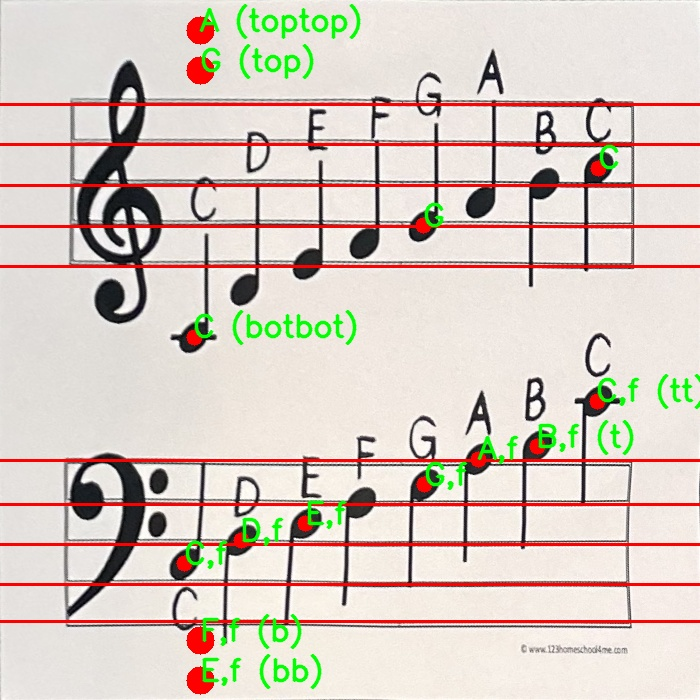
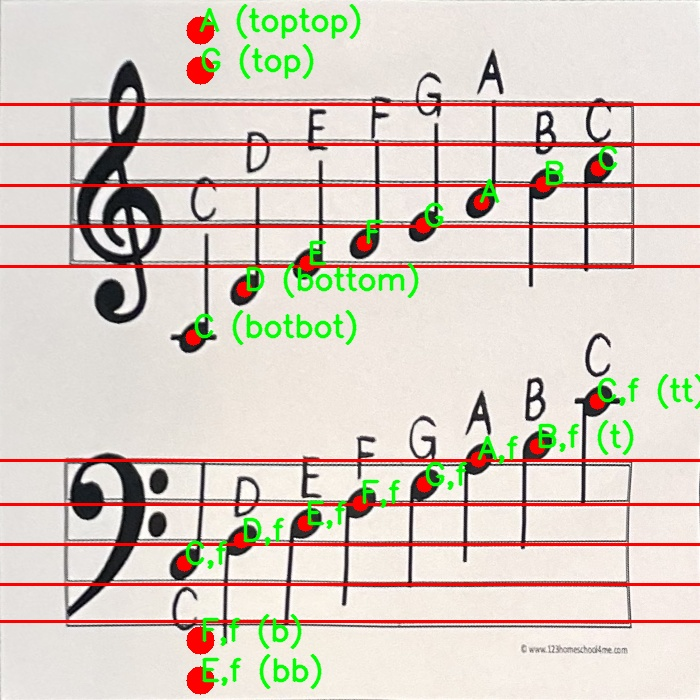
ferdig ryddet?

diff --git a/ryddet mappe/note_utils.py b/ryddet mappe/note_utils.py
@@ -2,9 +2,9 @@ import cv2
 import numpy as np 
 def removeLines(imageCanny):
 	kernel = cv2.getStructuringElement(cv2.MORPH_RECT, (7,7))#kernel for rectangle
-	imageNoLines = cv2.morphologyEx(imageCanny, cv2.MORPH_CLOSE, kernel)#fills inn lines
+	imageNoLines = cv2.morphologyEx(imageCanny, cv2.MORPH_OPEN, kernel)#fills inn lines
 
-	imageNoLines = cv2.threshold(imageNoLines,100,255,cv2.THRESH_BINARY)[1]
+	imageNoLines = cv2.threshold(imageNoLines,150,255,cv2.THRESH_BINARY)[1]
 
 	return imageNoLines
 
@@ -19,8 +19,8 @@ def getNoteDetectParams(minAreal,maxAreal):
 
 	# Set Circularity 
 	params.filterByCircularity = True
-	params.minCircularity = 0.75
-	params.maxCircularity = 0.85
+	params.minCircularity = 0.63
+	params.maxCircularity = 0.9
 
 	# Set Convexity (the larger -> more like a cricle)
 	params.filterByConvexity = True
@@ -28,15 +28,17 @@ def getNoteDetectParams(minAreal,maxAreal):
 		
 	# Set inertia (this gives ellipse like shape between zero and one i think... cicle is 1)
 	params.filterByInertia = True
-	params.minInertiaRatio = 0.23
-	params.maxInertiaRatio = 0.56
+	params.minInertiaRatio = 0.2
+	params.maxInertiaRatio = 0.55
 	return params
 
 def getLinePosition(rho, theta):
+    # See hough line transform theory
     a = np.cos(theta)
     b = np.sin(theta)
     x0 = a*rho
     y0 = b*rho
+    #make line 2000 pixels long
     x1 = int(x0 + 2000*(-b))
     y1 = int(y0 + 2000*(a))
     x2 = int(x0 - 2000*(-b))
@@ -54,6 +56,7 @@ def check_close_line(line,filter_lines,treshold, img):
             return True
     return False
 
+# Remove lines that are close to each other
 def remove_close_lines(lines, treshold, img):
     filter_lines = [lines[0]]
     for line in lines:
@@ -61,6 +64,7 @@ def remove_close_lines(lines, treshold, img):
         if not is_close: filter_lines.append(line)
     return filter_lines
 
+# True: there's an intersection between the line and the circle
 def line_circle_intersection(line_start, line_end, circle_center, circle_radius):
     
     # Line in vector form
@@ -71,6 +75,7 @@ def line_circle_intersection(line_start, line_end, circle_center, circle_radius)
     
     # Projection, vector that goes from line start to the closest point on the line to the circle center
     projection = np.dot(start_to_center, line_vec) / np.dot(line_vec, line_vec) * line_vec
+
     # Closest point on the line to the circle center
     closest_point = np.array(line_start) + projection
     
@@ -83,119 +88,109 @@ def line_circle_intersection(line_start, line_end, circle_center, circle_radius)
     else:
         return False
 
-def draw_notes_intersetion_gclef(img, note_pos,x_c, y_c):
-    if note_pos == 1:
+# Draw notes who intersects with lines (for g clef)
+def draw_notes_intersetion_gclef(img, line_pos,x_c, y_c):
+    if line_pos == 1:
         print("note is a E")
         cv2.putText(img, "E", (x_c, y_c), cv2.FONT_HERSHEY_SIMPLEX, 1, (0, 255, 0), 2, cv2.LINE_AA)
-    elif note_pos == 2:
+    elif line_pos == 2:
         print("note is a G")
         cv2.putText(img, "G", (x_c, y_c), cv2.FONT_HERSHEY_SIMPLEX, 1, (0, 255, 0), 2, cv2.LINE_AA)
-    elif note_pos == 3:
+    elif line_pos == 3:
         print("note is a B") 
         cv2.putText(img, "B", (x_c, y_c), cv2.FONT_HERSHEY_SIMPLEX, 1, (0, 255, 0), 2, cv2.LINE_AA)  
-    elif note_pos == 4:
+    elif line_pos == 4:
         print("note is a D")
         cv2.putText(img, "D", (x_c, y_c), cv2.FONT_HERSHEY_SIMPLEX, 1, (0, 255, 0), 2, cv2.LINE_AA)
-    elif note_pos == 5:
+    elif line_pos == 5:
         print("note is a F")
         cv2.putText(img, "F", (x_c, y_c), cv2.FONT_HERSHEY_SIMPLEX, 1, (0, 255, 0), 2, cv2.LINE_AA)
 
-def draw_notes_intersetion_fclef(img, note_pos,x_c, y_c):
-    if note_pos == 1:
+# Draw notes who intersects with lines (for f clef)
+def draw_notes_intersetion_fclef(img, line_pos,x_c, y_c):
+    if line_pos == 1:
         print("note is a G")
         cv2.putText(img, "G,f", (x_c, y_c), cv2.FONT_HERSHEY_SIMPLEX, 1, (0, 255, 0), 2, cv2.LINE_AA)
-    elif note_pos == 2:
+    elif line_pos == 2:
         print("note is a B")
         cv2.putText(img, "B,f", (x_c, y_c), cv2.FONT_HERSHEY_SIMPLEX, 1, (0, 255, 0), 2, cv2.LINE_AA)
-    elif note_pos == 3:
+    elif line_pos == 3:
         print("note is a D") 
         cv2.putText(img, "D,f", (x_c, y_c), cv2.FONT_HERSHEY_SIMPLEX, 1, (0, 255, 0), 2, cv2.LINE_AA)  
-    elif note_pos == 4:
+    elif line_pos == 4:
         print("note is a F")
         cv2.putText(img, "F,f", (x_c, y_c), cv2.FONT_HERSHEY_SIMPLEX, 1, (0, 255, 0), 2, cv2.LINE_AA)
-    elif note_pos == 5:
+    elif line_pos == 5:
         print("note is a A")
         cv2.putText(img, "A,f", (x_c, y_c), cv2.FONT_HERSHEY_SIMPLEX, 1, (0, 255, 0), 2, cv2.LINE_AA)
 
-def draw_notes_no_intersection_gclef(split_lines, img, x_c, y_c, line_spacing):
-    #code for notes in between lines
-    smallest_distance = 1000000
-    distances_info = []
-    distance_info = ()
-    for line in split_lines:
-        
-        for x1,y1,x2,y2,rho,theta,note_pos, grei in line:
-            distance = abs(y2-y_c)
-            distance_info = (distance, note_pos, y2)
-            distances_info.append(distance_info)
-    # print("distances_info:",distances_info)
-    distances_info_sorted = sorted(distances_info, key=lambda x: x[0])
-    # print("distances_info_sorted:",distances_info_sorted)
-    closest_note_pos = distances_info_sorted[0][1]
-    second_closest_note_pos = distances_info_sorted[1][1]
-    if closest_note_pos == 1 and (y_c > distances_info_sorted[0][2]) and (y_c - distances_info_sorted[0][2] < line_spacing):
+# Draw notes in between lines and over staff (for g clef)
+def draw_notes_no_intersection_gclef(split_lines, img, x_c, y_c, line_spacing, closest_line_pos, closest_line_yvalue, second_closest_line_pos):
+    
+    # For notes over/under the lines
+    if closest_line_pos == 1 and (y_c > closest_line_yvalue) and (y_c - closest_line_yvalue < line_spacing):
         print("Note is D (bottom)")
         cv2.putText(img, "D (bottom)", (x_c, y_c), cv2.FONT_HERSHEY_SIMPLEX, 1, (0, 255, 0), 2, cv2.LINE_AA)
         return
-    if closest_note_pos == 1 and (y_c > distances_info_sorted[0][2]) and (y_c - distances_info_sorted[0][2] > line_spacing):
+    if closest_line_pos == 1 and (y_c > closest_line_yvalue) and (y_c - closest_line_yvalue > line_spacing):
         print("Note is C (botbot)")
         cv2.putText(img, "C (botbot)", (x_c, y_c), cv2.FONT_HERSHEY_SIMPLEX, 1, (0, 255, 0), 2, cv2.LINE_AA)
         return
-    if closest_note_pos == 5 and (y_c < distances_info_sorted[0][2]) and (distances_info_sorted[0][2] - y_c < line_spacing):
+    if closest_line_pos == 5 and (y_c < closest_line_yvalue) and (closest_line_yvalue - y_c < line_spacing):
         print("Note is G (top)")
         cv2.putText(img, "G (top)", (x_c, y_c), cv2.FONT_HERSHEY_SIMPLEX, 1, (0, 255, 0), 2, cv2.LINE_AA)
         return
-    if closest_note_pos == 5 and (y_c < distances_info_sorted[0][2]) and (distances_info_sorted[0][2] - y_c > line_spacing):
+    if closest_line_pos == 5 and (y_c < closest_line_yvalue) and (closest_line_yvalue - y_c > line_spacing):
         print("Note is A (toptop)")
         cv2.putText(img, "A (toptop)", (x_c, y_c), cv2.FONT_HERSHEY_SIMPLEX, 1, (0, 255, 0), 2, cv2.LINE_AA)
         return
-    
-    # print("closest_note_pos and second_closest_note_pos:",closest_note_pos,second_closest_note_pos)
-    # print("distances_info_sorted",distances_info_sorted)
-    if closest_note_pos == 1 and second_closest_note_pos == 2 or closest_note_pos == 2 and second_closest_note_pos == 1:
+
+    # For notes in between the lines
+    if closest_line_pos == 1 and second_closest_line_pos == 2 or closest_line_pos == 2 and second_closest_line_pos == 1:
         print("note is a F")
         cv2.putText(img, "F", (x_c, y_c), cv2.FONT_HERSHEY_SIMPLEX, 1, (0, 255, 0), 2, cv2.LINE_AA)
-    elif closest_note_pos == 2 and second_closest_note_pos == 3 or closest_note_pos == 3 and second_closest_note_pos == 2:
+    elif closest_line_pos == 2 and second_closest_line_pos == 3 or closest_line_pos == 3 and second_closest_line_pos == 2:
         print("note is a A.")
         cv2.putText(img, "A", (x_c, y_c), cv2.FONT_HERSHEY_SIMPLEX, 1, (0, 255, 0), 2, cv2.LINE_AA)
-    elif closest_note_pos == 3 and second_closest_note_pos == 4 or closest_note_pos == 4 and second_closest_note_pos == 3:
+    elif closest_line_pos == 3 and second_closest_line_pos == 4 or closest_line_pos == 4 and second_closest_line_pos == 3:
         print("note is a C")
         cv2.putText(img, "C", (x_c, y_c), cv2.FONT_HERSHEY_SIMPLEX, 1, (0, 255, 0), 2, cv2.LINE_AA)
-    elif closest_note_pos == 4 and second_closest_note_pos == 5 or closest_note_pos == 5 and second_closest_note_pos == 4:
+    elif closest_line_pos == 4 and second_closest_line_pos == 5 or closest_line_pos == 5 and second_closest_line_pos == 4:
         print("note is a E")
         cv2.putText(img, "E", (x_c, y_c), cv2.FONT_HERSHEY_SIMPLEX, 1, (0, 255, 0), 2, cv2.LINE_AA)
-    # print("No intersection found")
 
-def draw_notes_no_intersection_fclef(split_lines, img, x_c, y_c, line_spacing, closest_note_pos, closest_line_yvalue, second_closest_note_pos):
-    #code for notes in between lines
-
-    if closest_note_pos == 1 and (y_c > closest_line_yvalue) and (y_c - closest_line_yvalue < line_spacing):
+# Draw notes in between lines and over staff (for f clef)
+def draw_notes_no_intersection_fclef(split_lines, img, x_c, y_c, line_spacing, closest_line_pos, closest_line_yvalue, second_closest_line_pos):
+    
+    # For notes over/under the lines
+    if closest_line_pos == 1 and (y_c > closest_line_yvalue) and (y_c - closest_line_yvalue < line_spacing):
         print("Note is F (b)")
         cv2.putText(img, "F,f (b)", (x_c, y_c), cv2.FONT_HERSHEY_SIMPLEX, 1, (0, 255, 0), 2, cv2.LINE_AA)
         print("values:",x_c, y_c)
         return
-    if closest_note_pos == 1 and (y_c > closest_line_yvalue) and (y_c - closest_line_yvalue > line_spacing):
+    if closest_line_pos == 1 and (y_c > closest_line_yvalue) and (y_c - closest_line_yvalue > line_spacing):
         print("Note is E (bb)")
         cv2.putText(img, "E,f (bb)", (x_c, y_c), cv2.FONT_HERSHEY_SIMPLEX, 1, (0, 255, 0), 2, cv2.LINE_AA)
         return
-    if closest_note_pos == 5 and (y_c < closest_line_yvalue) and (closest_line_yvalue - y_c < line_spacing):
+    if closest_line_pos == 5 and (y_c < closest_line_yvalue) and (closest_line_yvalue - y_c < line_spacing):
         print("Note is B (top)")
         cv2.putText(img, "B,f (t)", (x_c, y_c), cv2.FONT_HERSHEY_SIMPLEX, 1, (0, 255, 0), 2, cv2.LINE_AA)
         return
-    if closest_note_pos == 5 and (y_c < closest_line_yvalue) and (closest_line_yvalue - y_c > line_spacing):
+    if closest_line_pos == 5 and (y_c < closest_line_yvalue) and (closest_line_yvalue - y_c > line_spacing):
         print("Note is C (toptop)")
         cv2.putText(img, "C,f (tt)", (x_c, y_c), cv2.FONT_HERSHEY_SIMPLEX, 1, (0, 255, 0), 2, cv2.LINE_AA)
         return
     
-    if closest_note_pos == 1 and second_closest_note_pos == 2 or closest_note_pos == 2 and second_closest_note_pos == 1:
+    # For notes in between the lines
+    if closest_line_pos == 1 and second_closest_line_pos == 2 or closest_line_pos == 2 and second_closest_line_pos == 1:
         print("note is a A")
         cv2.putText(img, "A,f", (x_c, y_c), cv2.FONT_HERSHEY_SIMPLEX, 1, (0, 255, 0), 2, cv2.LINE_AA)
-    elif closest_note_pos == 2 and second_closest_note_pos == 3 or closest_note_pos == 3 and second_closest_note_pos == 2:
+    elif closest_line_pos == 2 and second_closest_line_pos == 3 or closest_line_pos == 3 and second_closest_line_pos == 2:
         print("note is a C")
         cv2.putText(img, "C,f", (x_c, y_c), cv2.FONT_HERSHEY_SIMPLEX, 1, (0, 255, 0), 2, cv2.LINE_AA)
-    elif closest_note_pos == 3 and second_closest_note_pos == 4 or closest_note_pos == 4 and second_closest_note_pos == 3:
+    elif closest_line_pos == 3 and second_closest_line_pos == 4 or closest_line_pos == 4 and second_closest_line_pos == 3:
         print("note is a E")
         cv2.putText(img, "E,f", (x_c, y_c), cv2.FONT_HERSHEY_SIMPLEX, 1, (0, 255, 0), 2, cv2.LINE_AA)
-    elif closest_note_pos == 4 and second_closest_note_pos == 5 or closest_note_pos == 5 and second_closest_note_pos == 4:
+    elif closest_line_pos == 4 and second_closest_line_pos == 5 or closest_line_pos == 5 and second_closest_line_pos == 4:
         print("note is a G")
         cv2.putText(img, "G,f", (x_c, y_c), cv2.FONT_HERSHEY_SIMPLEX, 1, (0, 255, 0), 2, cv2.LINE_AA)

diff --git a/ryddet mappe/note_detection.py b/ryddet mappe/note_detection.py
@@ -7,13 +7,13 @@ import note_utils as utils
     
 # Read the image and modify it
 img = cv2.imread('ryddet mappe/images/test.jpg')
-img = cv2.resize(img, (700,700))
+# img = cv2.resize(img, (700,700))
 gray = cv2.cvtColor(img,cv2.COLOR_BGR2GRAY)
-gray =~gray
-cv2.imshow("Gray", gray)
+gray = cv2.bitwise_not(gray)
 edges = cv2.Canny(gray,150,250)
 
-gris = utils.removeLines(edges)
+gris = utils.removeLines(gray)
+gris = cv2.bitwise_not(gris)
 params = utils.getNoteDetectParams(400,1500)
 
 # Create a notedetector with the parameters 
@@ -24,9 +24,10 @@ keypoints = noteDetector.detect(gris)
 circles = []
 radius = 8
 for note in cv2.KeyPoint_convert(keypoints):
-    image = cv2.circle(img, (round(note[0]),round(note[1])), radius, color=(0,0,255), thickness=-1)
+    img = cv2.circle(img, (round(note[0]),round(note[1])), radius, color=(0,0,255), thickness=-1)
     circles.append((int(note[0]),int(note[1]),radius))
 cv2.imshow("Notes found", img)
+cv2.imshow("gris", gris)
 cv2.waitKey(0)
 cv2.destroyAllWindows()
 
@@ -87,34 +88,31 @@ for circle in circle_positions:
 
 # Draw the notes on the image
 for circle in circles:
+
     no_intersection_found = True
     g_clef = True
     (x_c,y_c,r) = circle
-    
+
+    # Find line spacing (could add average)
     line_spacing = split_lines[0][0][3]-split_lines[0][1][3]
 
-    # closest_distance = float('inf')
-
-    # # Find the closest line to the circle (note)
-    # for line in split_lines:
-    #     for x1, y1, x2, y2, rho, theta, note_pos, g_clef in line:
-    #         distance = abs(y_c - ((y1 + y2) / 2))
-    #         if distance < closest_distance:
-    #             closest_distance = distance
-    #             closest_line = line
-
     smallest_distance = float("inf")
-    distances_info = []
     distance_info = ()
+    distances_info = []
     closest_line_gclef = None
+
     for line in split_lines:
-        for x1, y1, x2, y2, rho, theta, note_pos, g_clef in line:
+        for x1, y1, x2, y2, rho, theta, line_pos, g_clef in line:
             distance = abs(int(y2) - int(y_c))
-            distance_info = (distance, note_pos, y2, g_clef)
+            distance_info = (distance, line_pos, y2, g_clef)
             distances_info.append(distance_info)
+
+    # Sort the distances_info list by distance from the note to the line
     distances_info_sorted = sorted(distances_info, key=lambda x: x[0])
-    closest_note_pos = distances_info_sorted[0][1]
-    second_closest_note_pos = distances_info_sorted[1][1]
+
+    # Extract the closest and second closest line parameters
+    closest_line_pos = distances_info_sorted[0][1]
+    second_closest_line_pos = distances_info_sorted[1][1]
     closest_line_gclef = distances_info_sorted[0][3]
     closest_line_yvalue = distances_info_sorted[0][2]
 
@@ -123,25 +121,38 @@ for circle in circles:
         g_clef = closest_line_gclef
 
     for line in split_lines:
-        for x1,y1,x2,y2,rho,theta,note_pos,_ in line:
+        for x1,y1,x2,y2,rho,theta,line_pos,_ in line:
             intersect = utils.line_circle_intersection((x1,y1),(x2,y2),(x_c,y_c),r)
             
             if intersect and g_clef:
                 no_intersection_found = False
-                utils.draw_notes_intersetion_gclef(img, note_pos, x_c, y_c)
+                utils.draw_notes_intersetion_gclef(img, line_pos, x_c, y_c)
 
             if intersect and not g_clef:
                 no_intersection_found = False
-                utils.draw_notes_intersetion_fclef(img, note_pos, x_c, y_c)
+                utils.draw_notes_intersetion_fclef(img, line_pos, x_c, y_c)
 
     if no_intersection_found and g_clef:
-        utils.draw_notes_no_intersection_gclef(split_lines, img, x_c, y_c, line_spacing)
+        utils.draw_notes_no_intersection_gclef(split_lines, img, x_c, y_c, line_spacing, closest_line_pos, closest_line_yvalue, second_closest_line_pos)
 
     if no_intersection_found and not g_clef:
-        utils.draw_notes_no_intersection_fclef(split_lines, img, x_c, y_c, line_spacing, closest_note_pos, closest_line_yvalue, second_closest_note_pos)
+        utils.draw_notes_no_intersection_fclef(split_lines, img, x_c, y_c, line_spacing, closest_line_pos, closest_line_yvalue, second_closest_line_pos)
 
-cv2.namedWindow("hough", cv2.WINDOW_NORMAL) #så ikke zoomed-in
-cv2.resizeWindow("hough", img.shape[0], img.shape[1]) 
+# So it's not zoomed in
+cv2.namedWindow("hough", cv2.WINDOW_NORMAL) 
+
+# Resize the window to fit screen
+if img.shape[0] > 650:
+    width = 700
+else:
+    width = img.shape[0]
+
+if img.shape[1] > 650:
+    height = 650
+else:
+    height = img.shape[1]
+
+cv2.resizeWindow("hough", width, height) 
 cv2.imshow('hough',img)
 cv2.imwrite('notes_found.jpg', img)
 cv2.waitKey(0)
